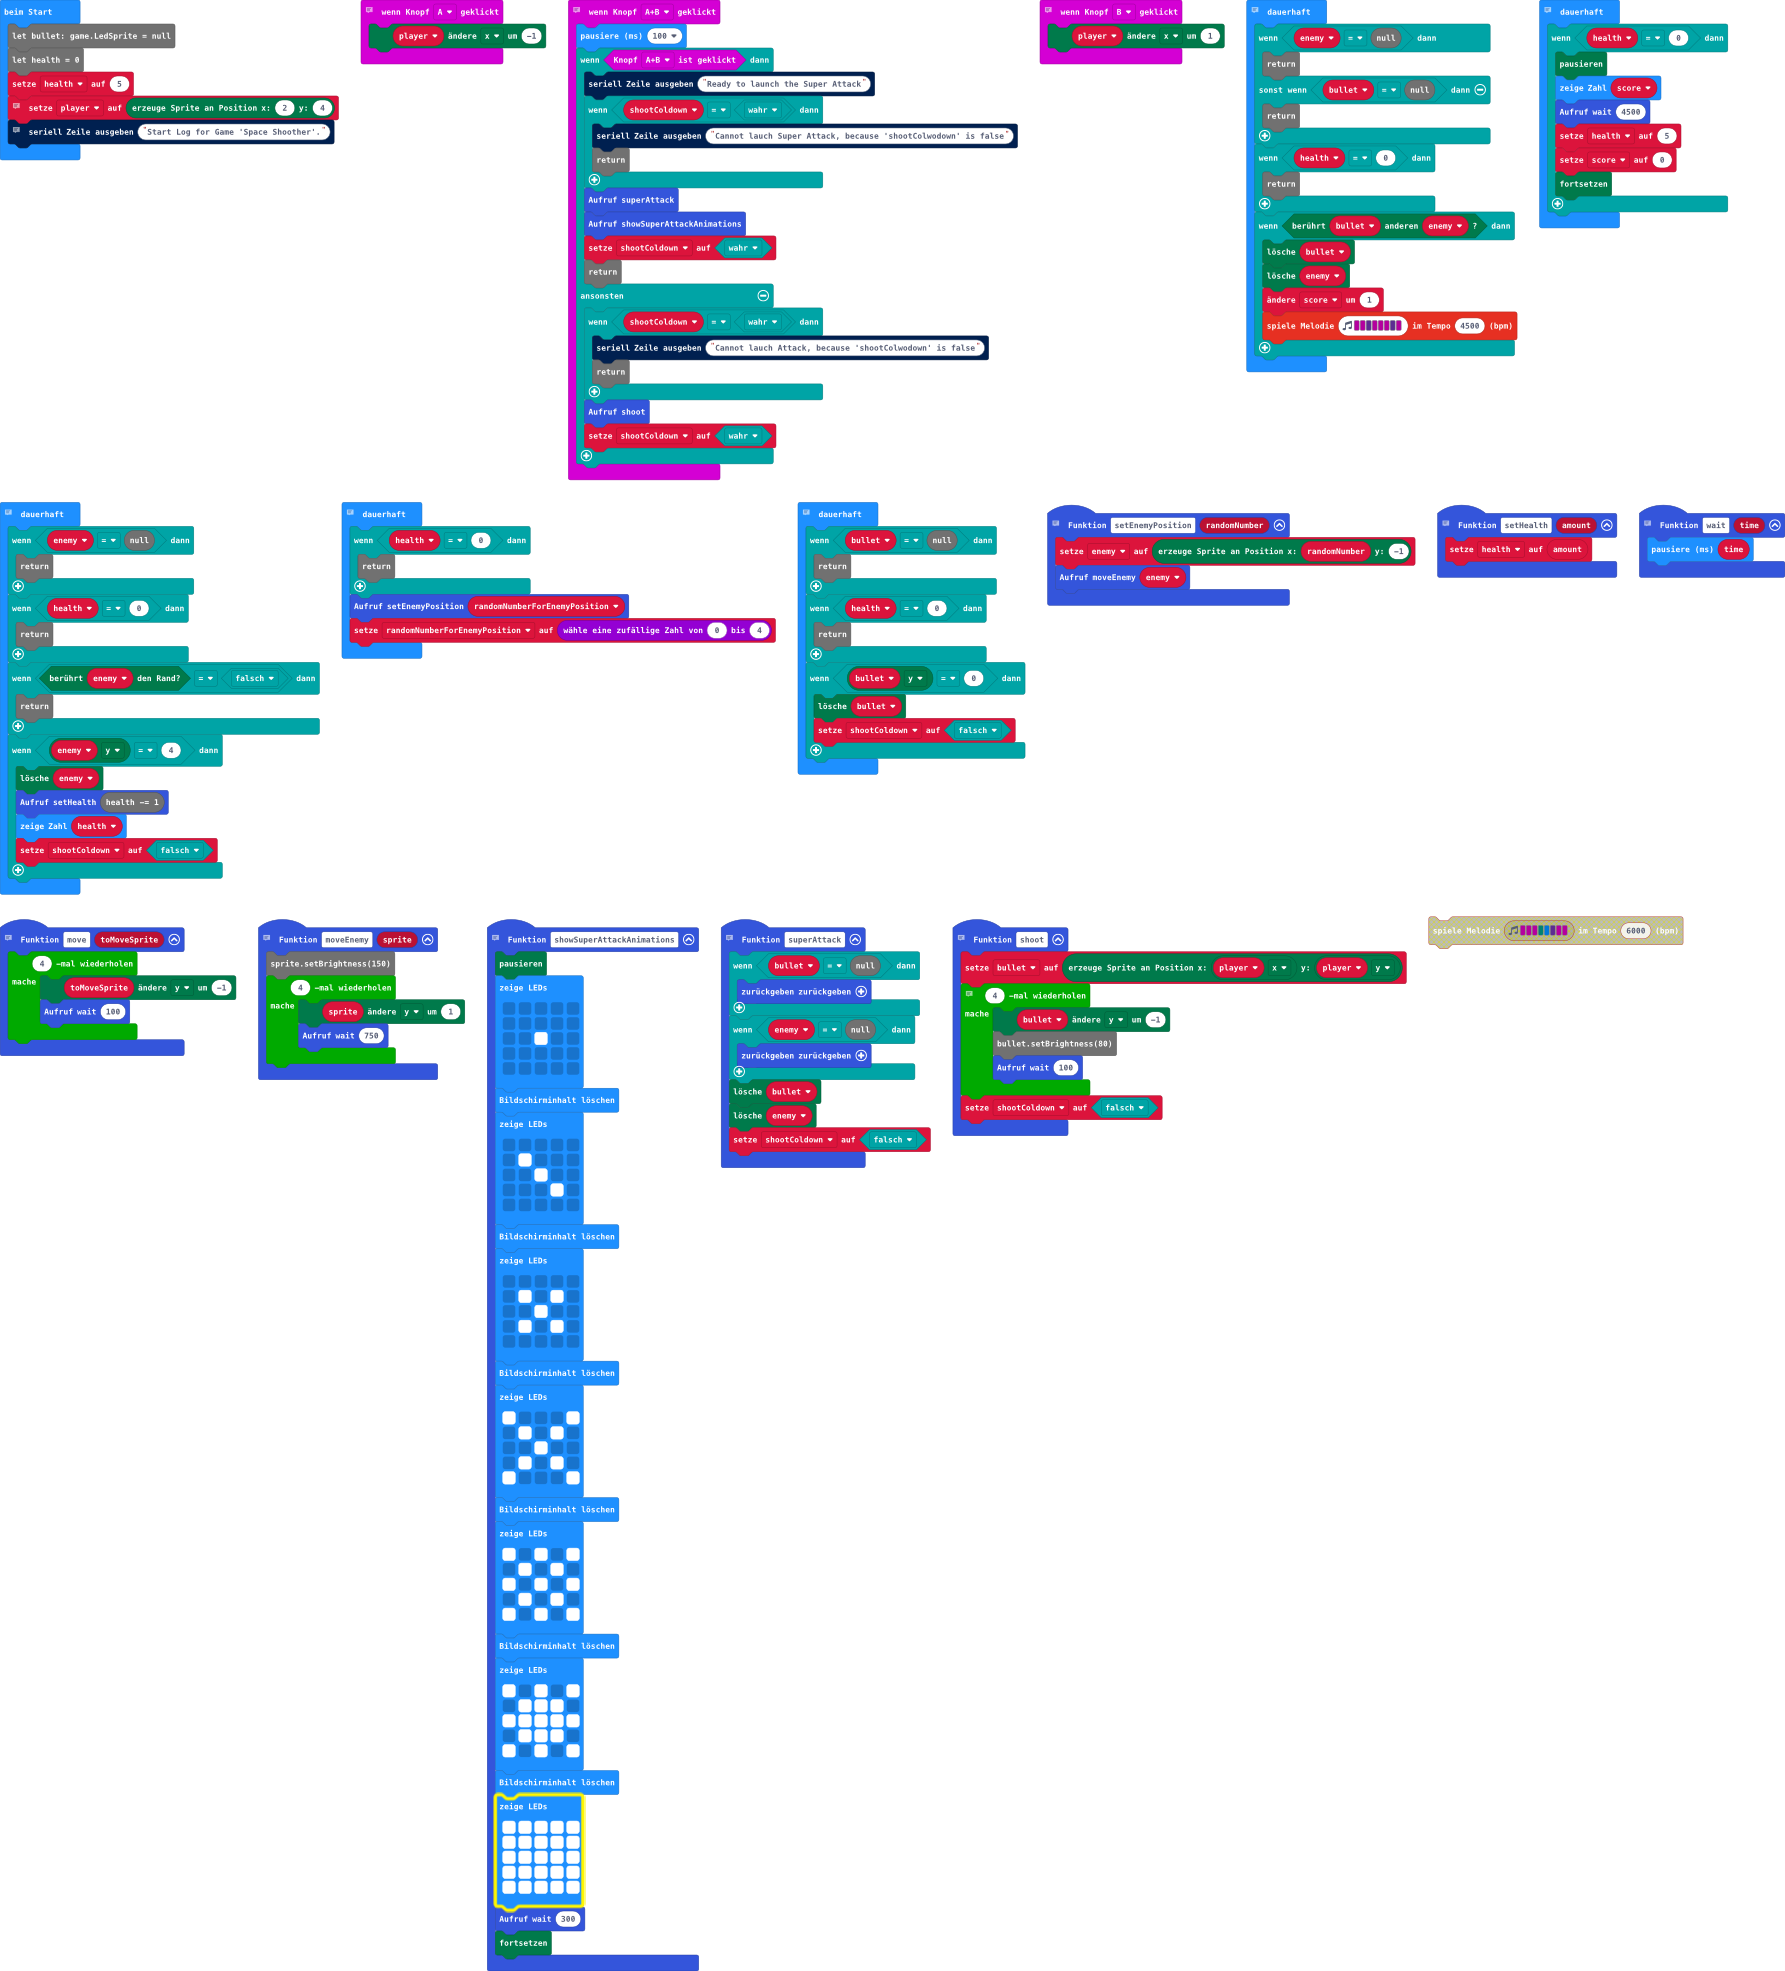
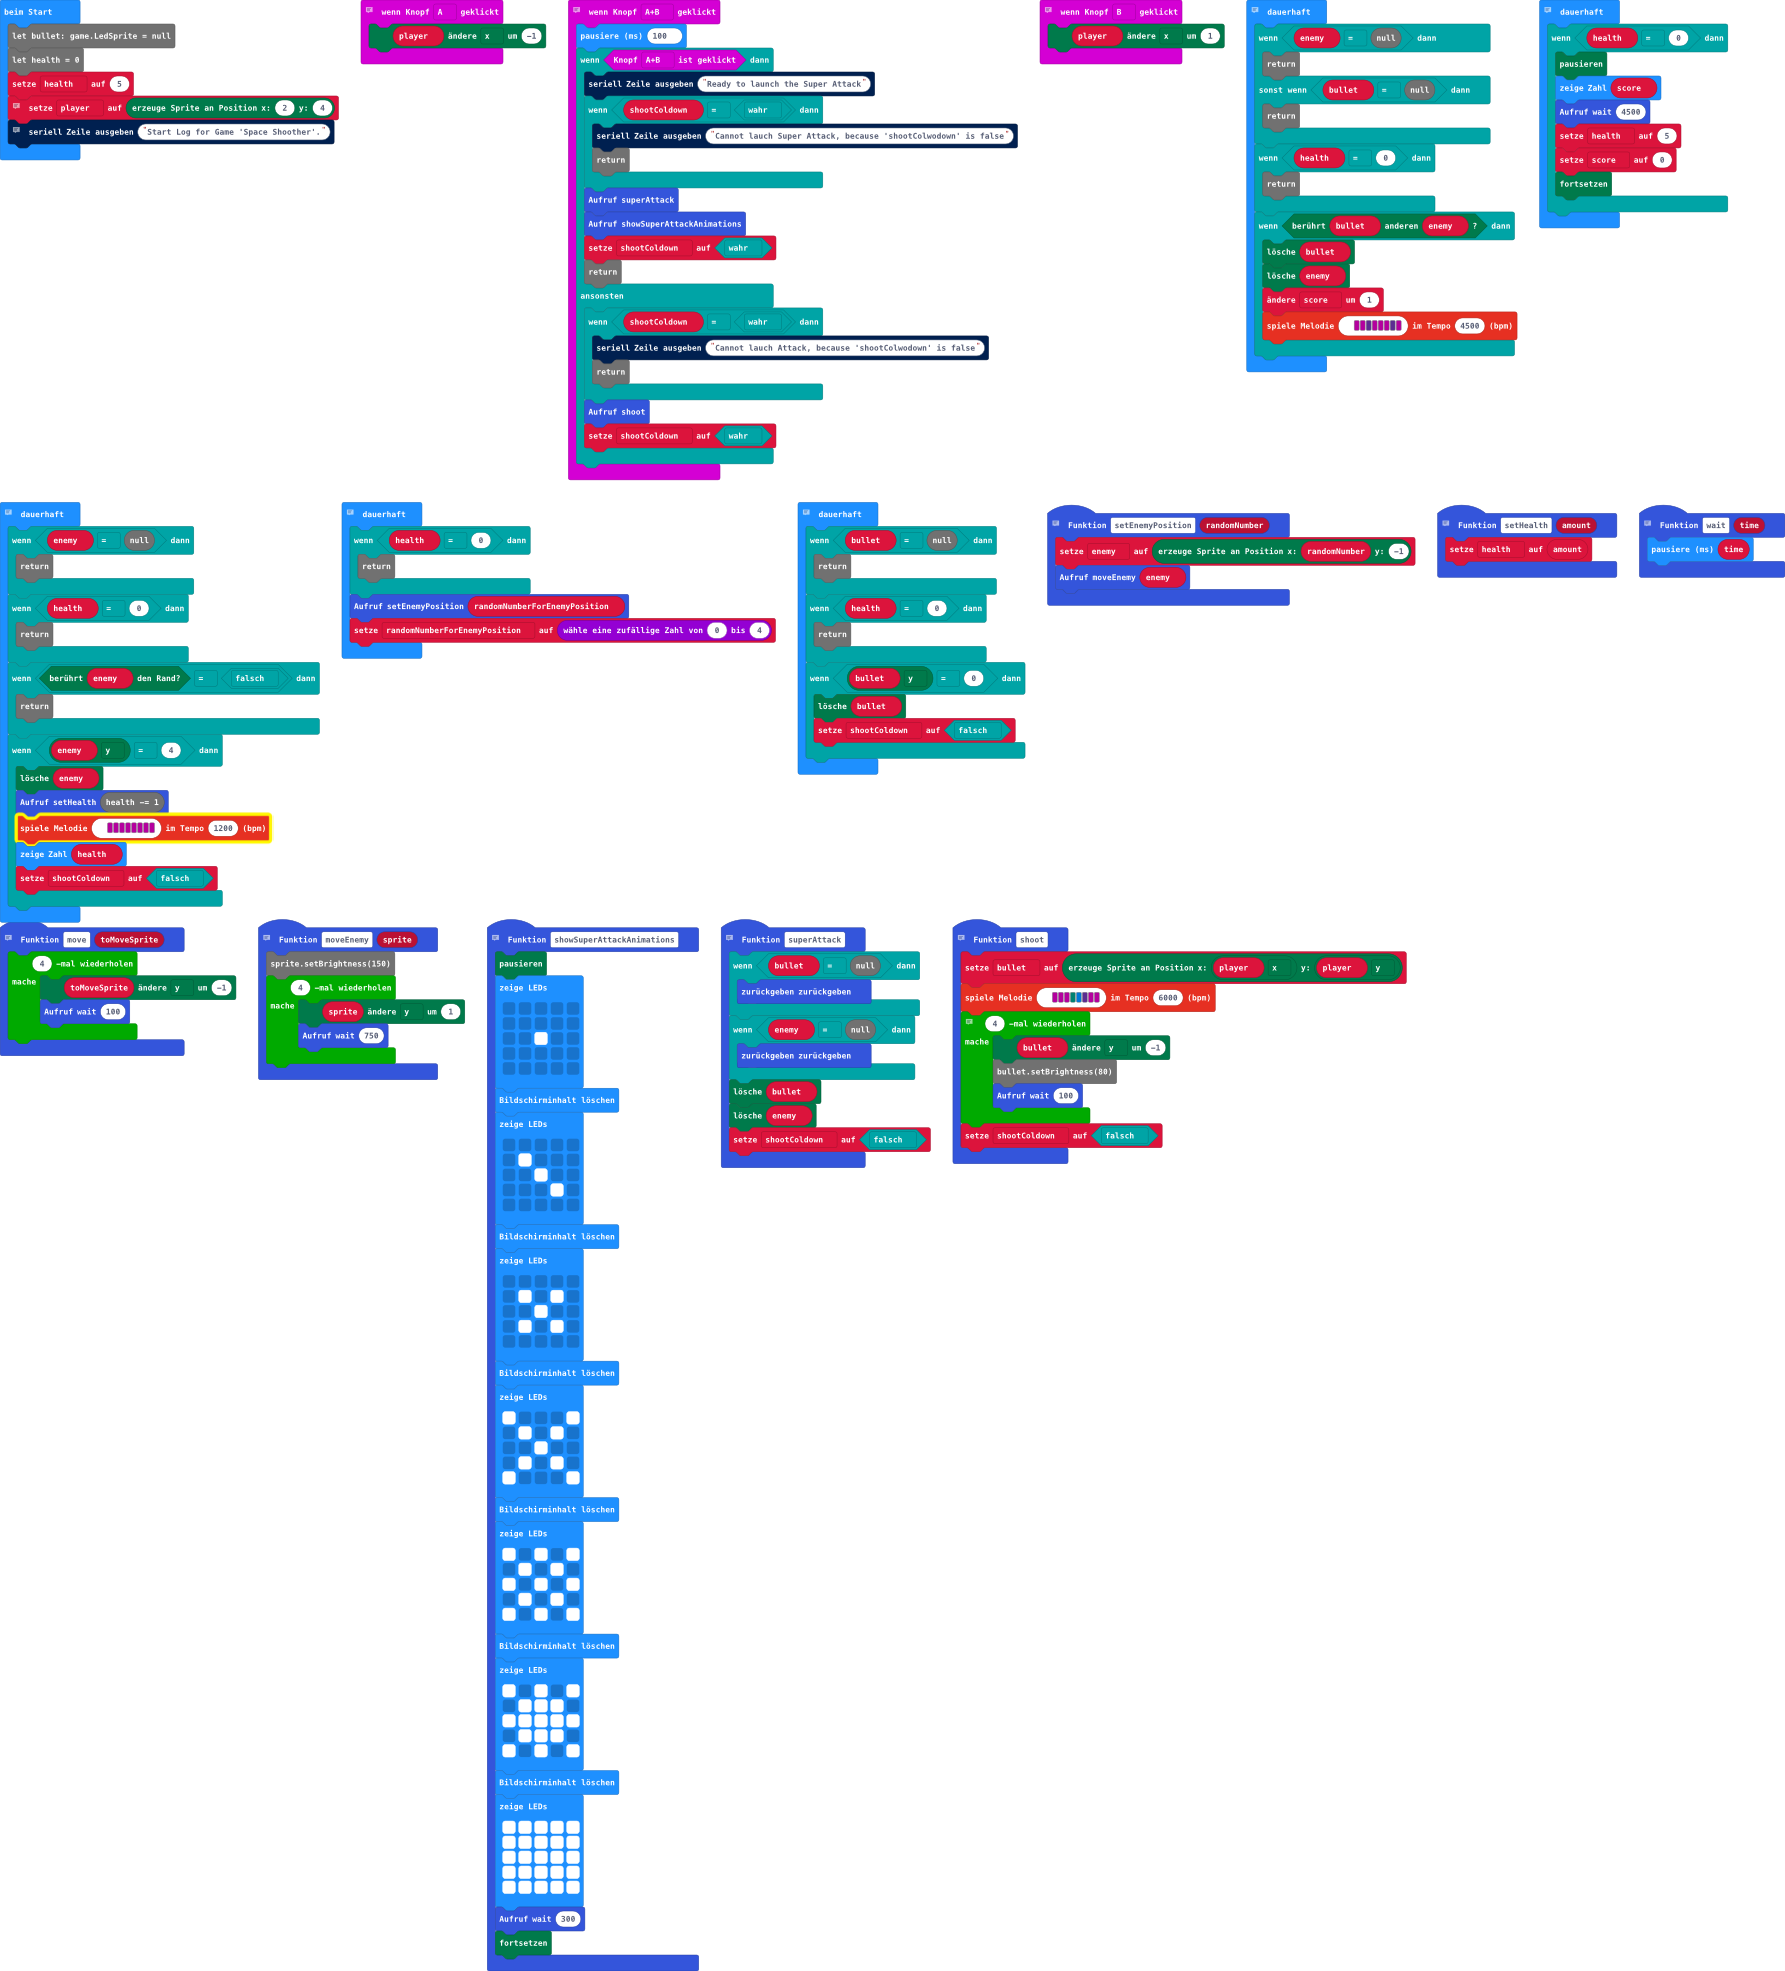
Update Sound System

diff --git a/main.ts b/main.ts
@@ -78,6 +78,7 @@ function wait (time: number) {
 // Change the Y - Coordinate of the bullet to simulate a shoot Animation
 function shoot () {
     bullet = game.createSprite(player.get(LedSpriteProperty.X), player.get(LedSpriteProperty.Y))
+    music.playMelody("C C C F E D C C ", 6000)
     // music.playMelody("C5 B A G F F F F ", 5000)
     for (let index = 0; index < 4; index++) {
         bullet.change(LedSpriteProperty.Y, -1)
@@ -194,6 +195,7 @@ basic.forever(function () {
     if (enemy.get(LedSpriteProperty.Y) == 4) {
         enemy.delete()
         setHealth(health -= 1)
+        music.playMelody("C C C C C C C C ", 1200)
         basic.showNumber(health)
         shootColdown = false
     }
